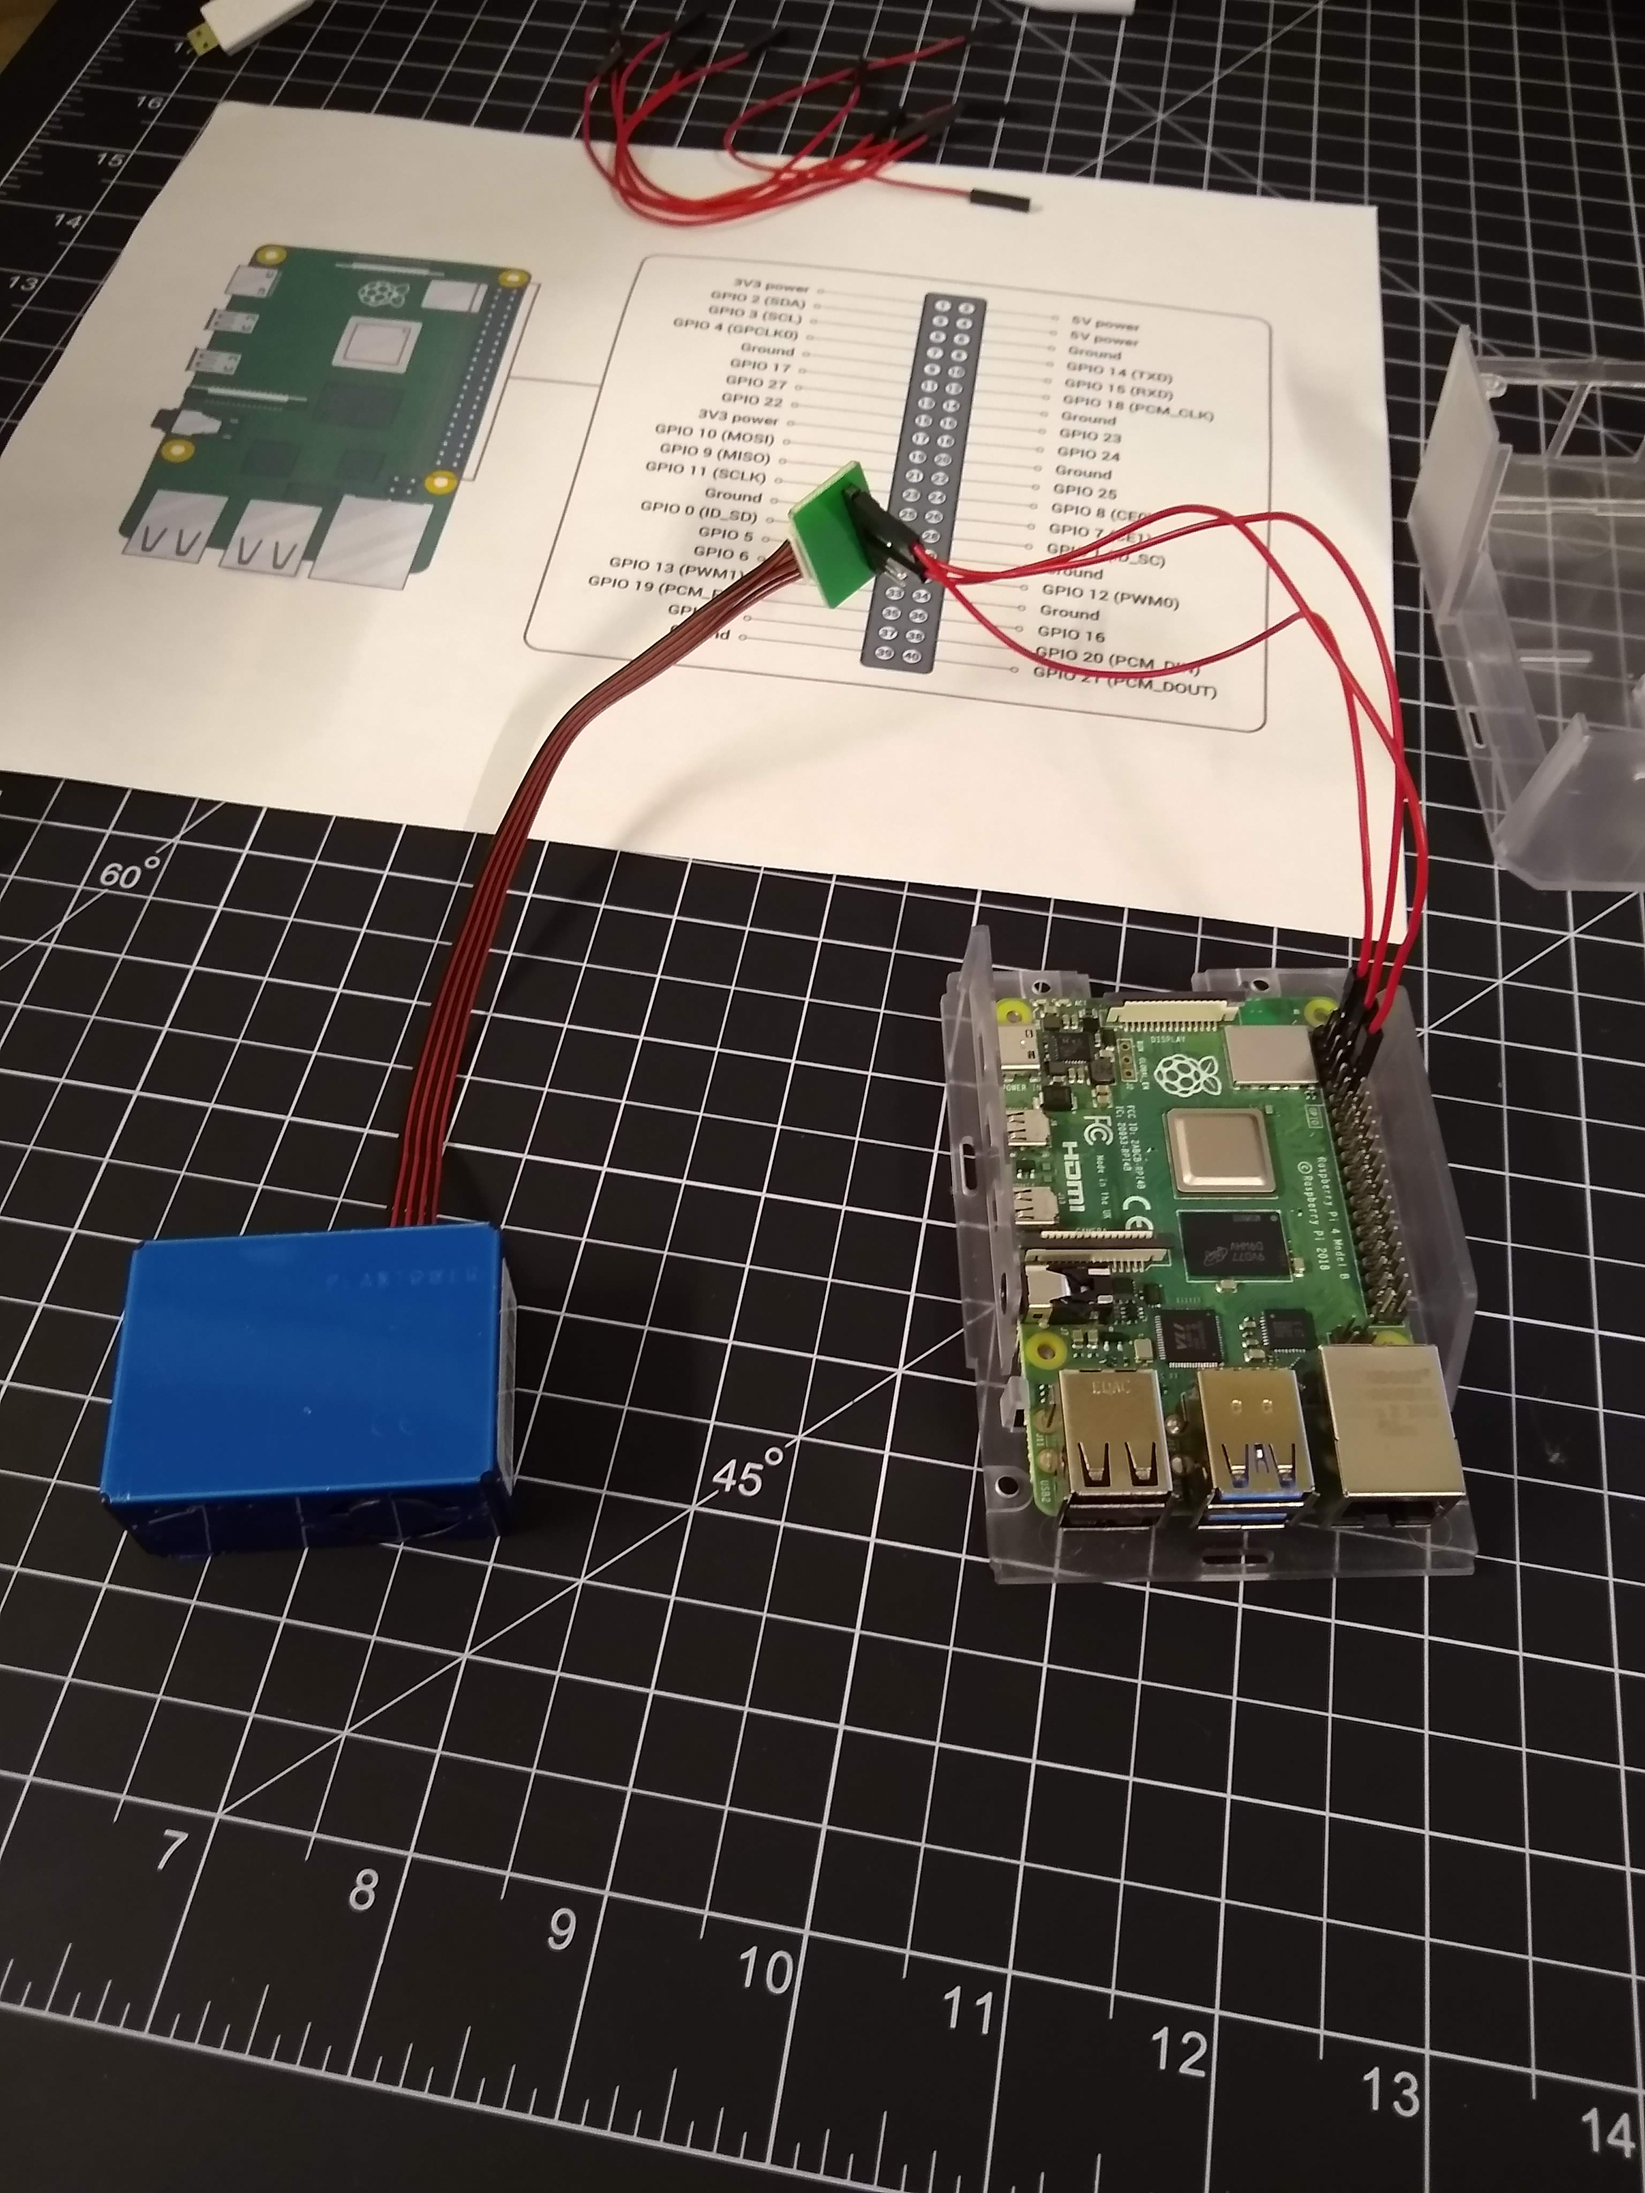
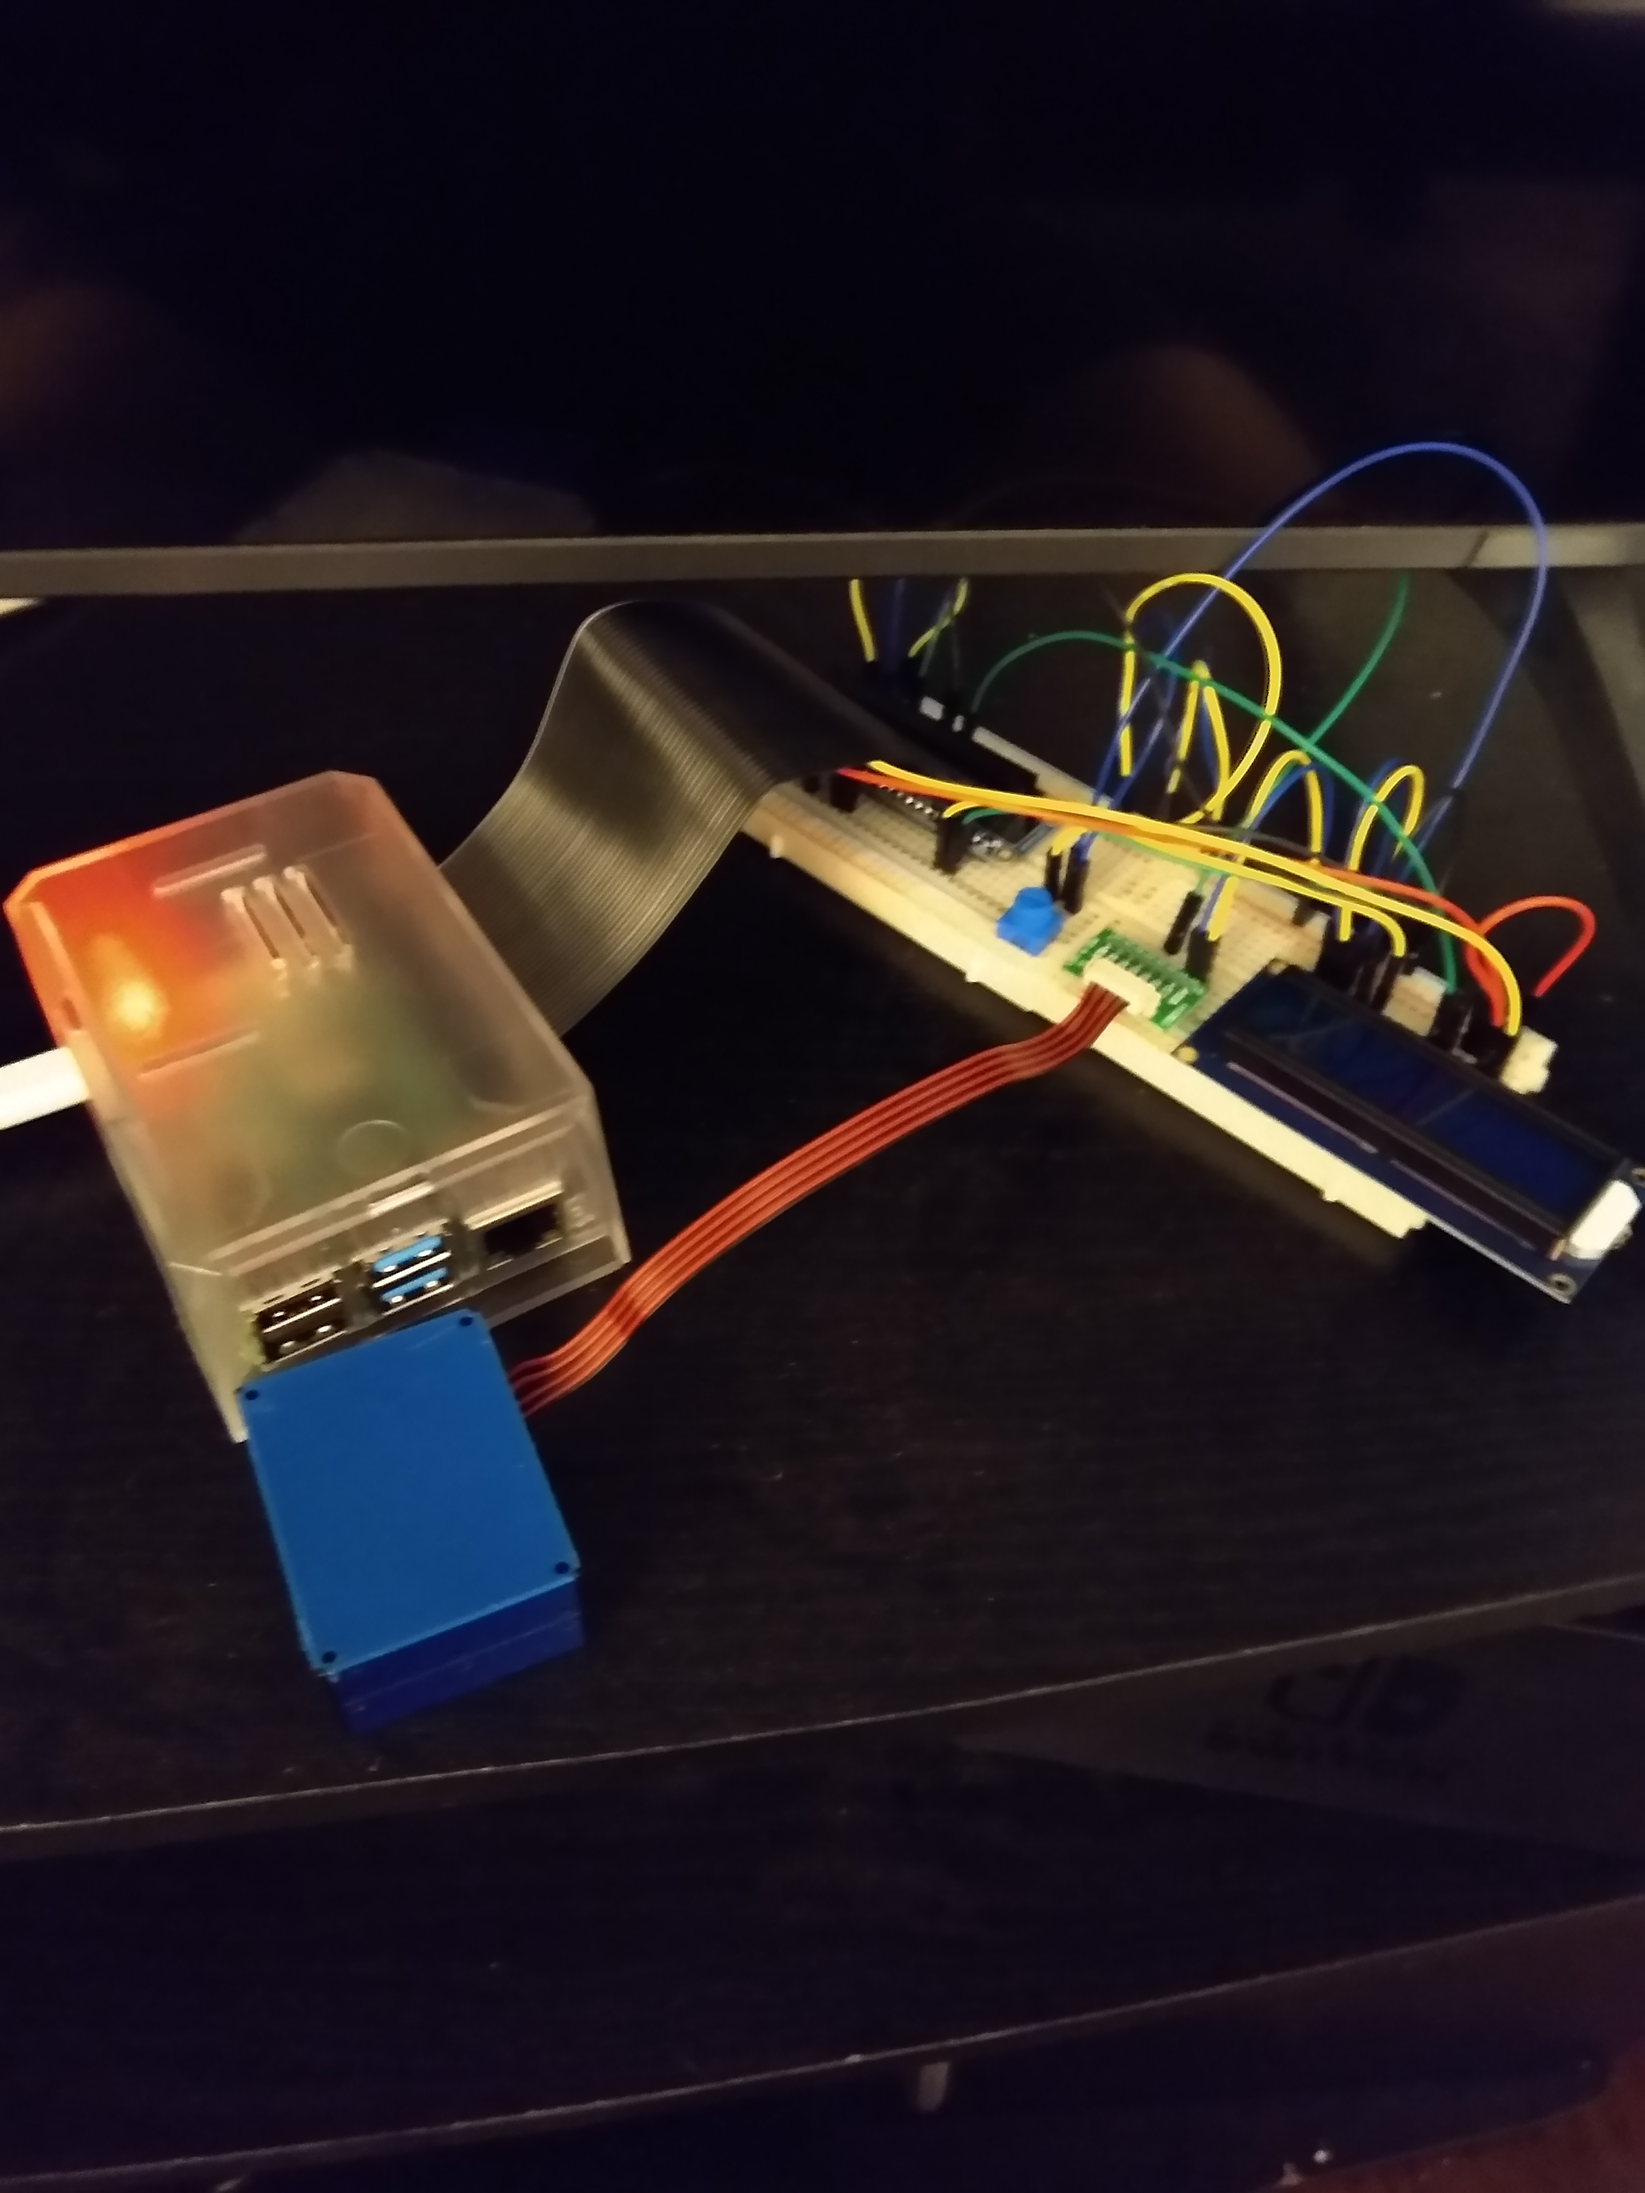
Updated README.

diff --git a/README.md b/README.md
@@ -8,10 +8,9 @@ Personal Python scripts for running sensors on Raspberry Pi. Currently focused o
 
 #### Hardware ####
 
-This sensor is currently attached to a Raspberry Pi Model 4 B+ with 4 GB of RAM. The sensor is connected via serial cable to breakout board from Adafruit, which is then attached via jumper wires to the GPIO pins on the Raspberry Pi. Wiring details and the second image below can be found at https://learn.adafruit.com/pm25-air-quality-sensor/python-and-circuitpython.
+This sensor is currently attached to a Raspberry Pi Model 4 B+ with 4 GB of RAM. The sensor is connected via serial cable to breakout board from Adafruit, which is then attached the GPIO pins on the Raspberry Pi using a solderless breadboard and a breakout for the Pi GPIO pins. Wiring details and the second image below can be found at https://learn.adafruit.com/pm25-air-quality-sensor/python-and-circuitpython.
 
 <p align="center">
-
 <img src="images/pm25_wiring.jpg" alt="Pi UART" width="400"/>
 
 </p>
@@ -25,7 +24,7 @@ This sensor is currently attached to a Raspberry Pi Model 4 B+ with 4 GB of RAM.
 
 #### Software ####
 
-I'm using Adafruit's CircuitPython PM25 module to read data from the sensor: https://github.com/adafruit/Adafruit_CircuitPython_PM25. Using this code requires installing both Adafruit's Blinka module to use their CircuitPython code (https://pypi.org/project/Adafruit-Blinka/), as well as pyserial (https://pypi.org/project/pyserial/). The blinkatest.py and pm25_simpletest.py scripts included here are both scripts from Adafruit for testing these modules.
+I'm using Adafruit's CircuitPython PM25 module to read data from the sensor: https://github.com/adafruit/Adafruit_CircuitPython_PM25, as well as their CharLCD module (https://github.com/adafruit/Adafruit_CircuitPython_CharLCD) to display output on the LCD  Using this code requires installing both Adafruit's Blinka module to use their CircuitPython code (https://pypi.org/project/Adafruit-Blinka/), as well as pyserial (https://pypi.org/project/pyserial/). The test scripts included here are all code from Adafruit for testing these modules.
 
 The pm25_simpletest.py module required one significant tweak from the settings described at https://learn.adafruit.com/pm25-air-quality-sensor/python-and-circuitpython. The timeout parameter for reading from the UART interface in the script was set to 0.25, which was too fast for the sensor to transmit data, causing it to fail repeatedly, so I changed it to 1:
 
@@ -33,11 +32,13 @@ The pm25_simpletest.py module required one significant tweak from the settings d
 
 Even this fails every ~5-8 measurements, so I've now increased it to 2 in the main log script.
 
-The main pm25_log.py script takes data at an interval and writes the output to a csv file using pandas. The nowcast.py file uses functions in processing.py to take the last 12 hours of PM 2.5 data to nowcast an air quality index (AQI), following EPA practices (https://usepa.servicenowservices.com/airnow?id=kb_article&sysparm_article=KB0011856). Currently, these two scripts are run every 10 minutes using a shell script and cron. The data is saved on an NFS share to an NAS drive, and the PM 2.5 data and AQI are uploaded to Adafruit IO.
+For some reason, with my LCD, the backlight turns off when set to True and on when set to False. I don't know why.
+
+The main pm25_log.py script takes data at an interval and writes the output to a csv file using pandas. The nowcast.py file uses functions in processing.py to take the last 12 hours of PM 2.5 data to nowcast an air quality index (AQI), following EPA practices (https://usepa.servicenowservices.com/airnow?id=kb_article&sysparm_article=KB0011856). It also outputs the current results to the LCD screen, which is turned off at night because it's really bright. Currently, these two scripts are run every 10 minutes using a shell script and cron. The data is saved on an NFS share to an NAS drive, and the PM 2.5 data and AQI are uploaded to Adafruit IO.
 
 #### Next Steps ####
 
-* Add RGB LED and LCD screen to output current PM 2.5 and AQI and show the color of the current AQI level.
+* Add RGB LED to show the color of the current AQI level.
 
 
 
